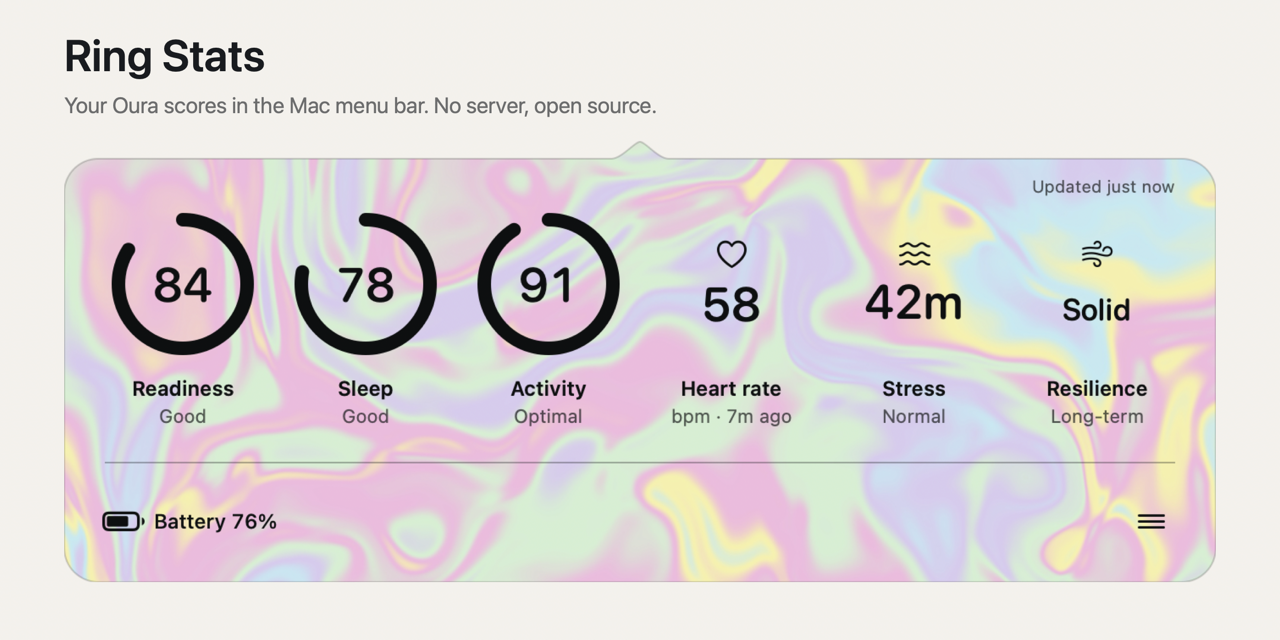
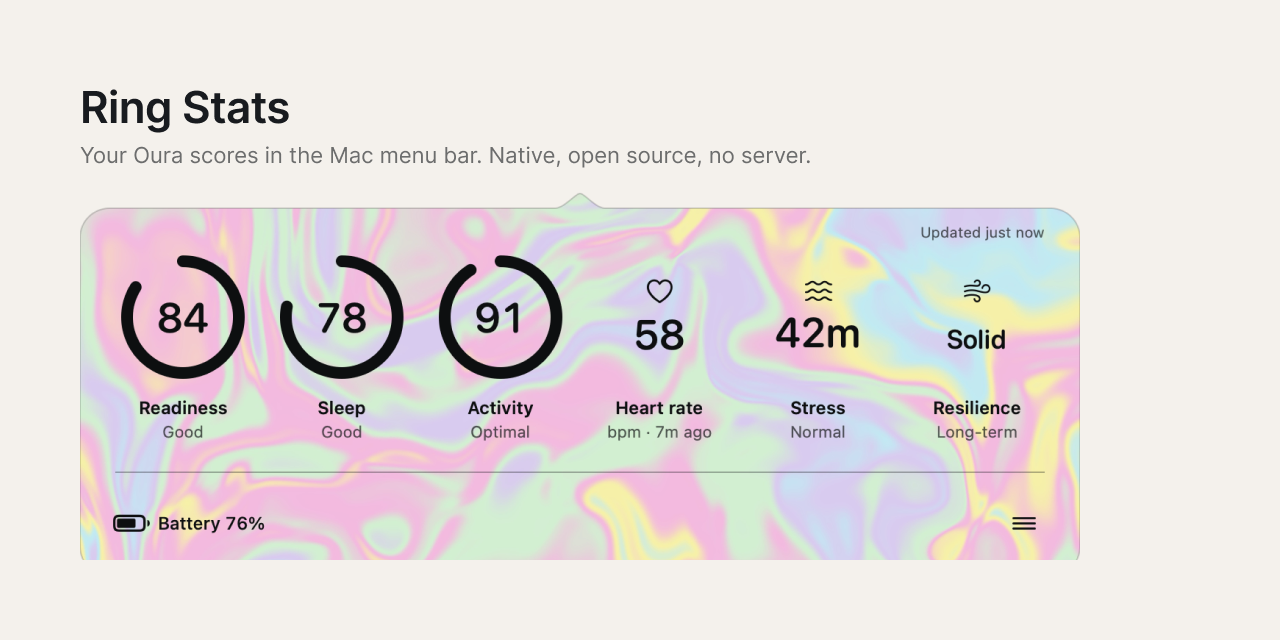
Use the Figma social preview card (#47)
The 1280 by 640 card now comes from the Social preview page of the
project Figma file, with the title, subtitle, and popover inside GitHub's
40 pt safe border.

diff --git a/ASSETS.md b/ASSETS.md
@@ -13,7 +13,7 @@ artwork, proprietary typefaces, or extracted application assets.
 | `LandscapeBackground.png` | Bundled Landscape theme | Project-owned generated landscape created for Ring Stats; no Oura, person, or product imagery |
 | `.github/assets/ring-stats-banner.*` | README identity banner | Maintainer-provided export from the project Figma file |
 | `.github/assets/ring-stats-hero.png` | README hero | The Holographic popover rendered by the app at 680 pt and 2x on a transparent background with synthetic gallery values |
-| `.github/assets/ring-stats-social-preview.png` | GitHub social preview (1280 by 640) | The same render on the warm canvas with the app name; upload it under Settings, Social preview |
+| `.github/assets/ring-stats-social-preview.png` | GitHub social preview (1280 by 640) | Exported from the "Social preview" page of the project Figma file: the Holographic popover render (synthetic gallery values) with the app name on the warm canvas, inside GitHub's 40 pt safe border; upload it under Settings, Social preview |
 | `.github/assets/ring-stats-themes-v6-light.png`, `-dark.png` | README theme showcase | The Landscape, Holographic, and Ring Stats themes rendered by the app at 680 pt and 2x on a transparent background, stacked under their names; the light and dark files differ only in the name color, for GitHub's light and dark modes |
 
 In the README theme showcase, every value is a synthetic fixture from the state
